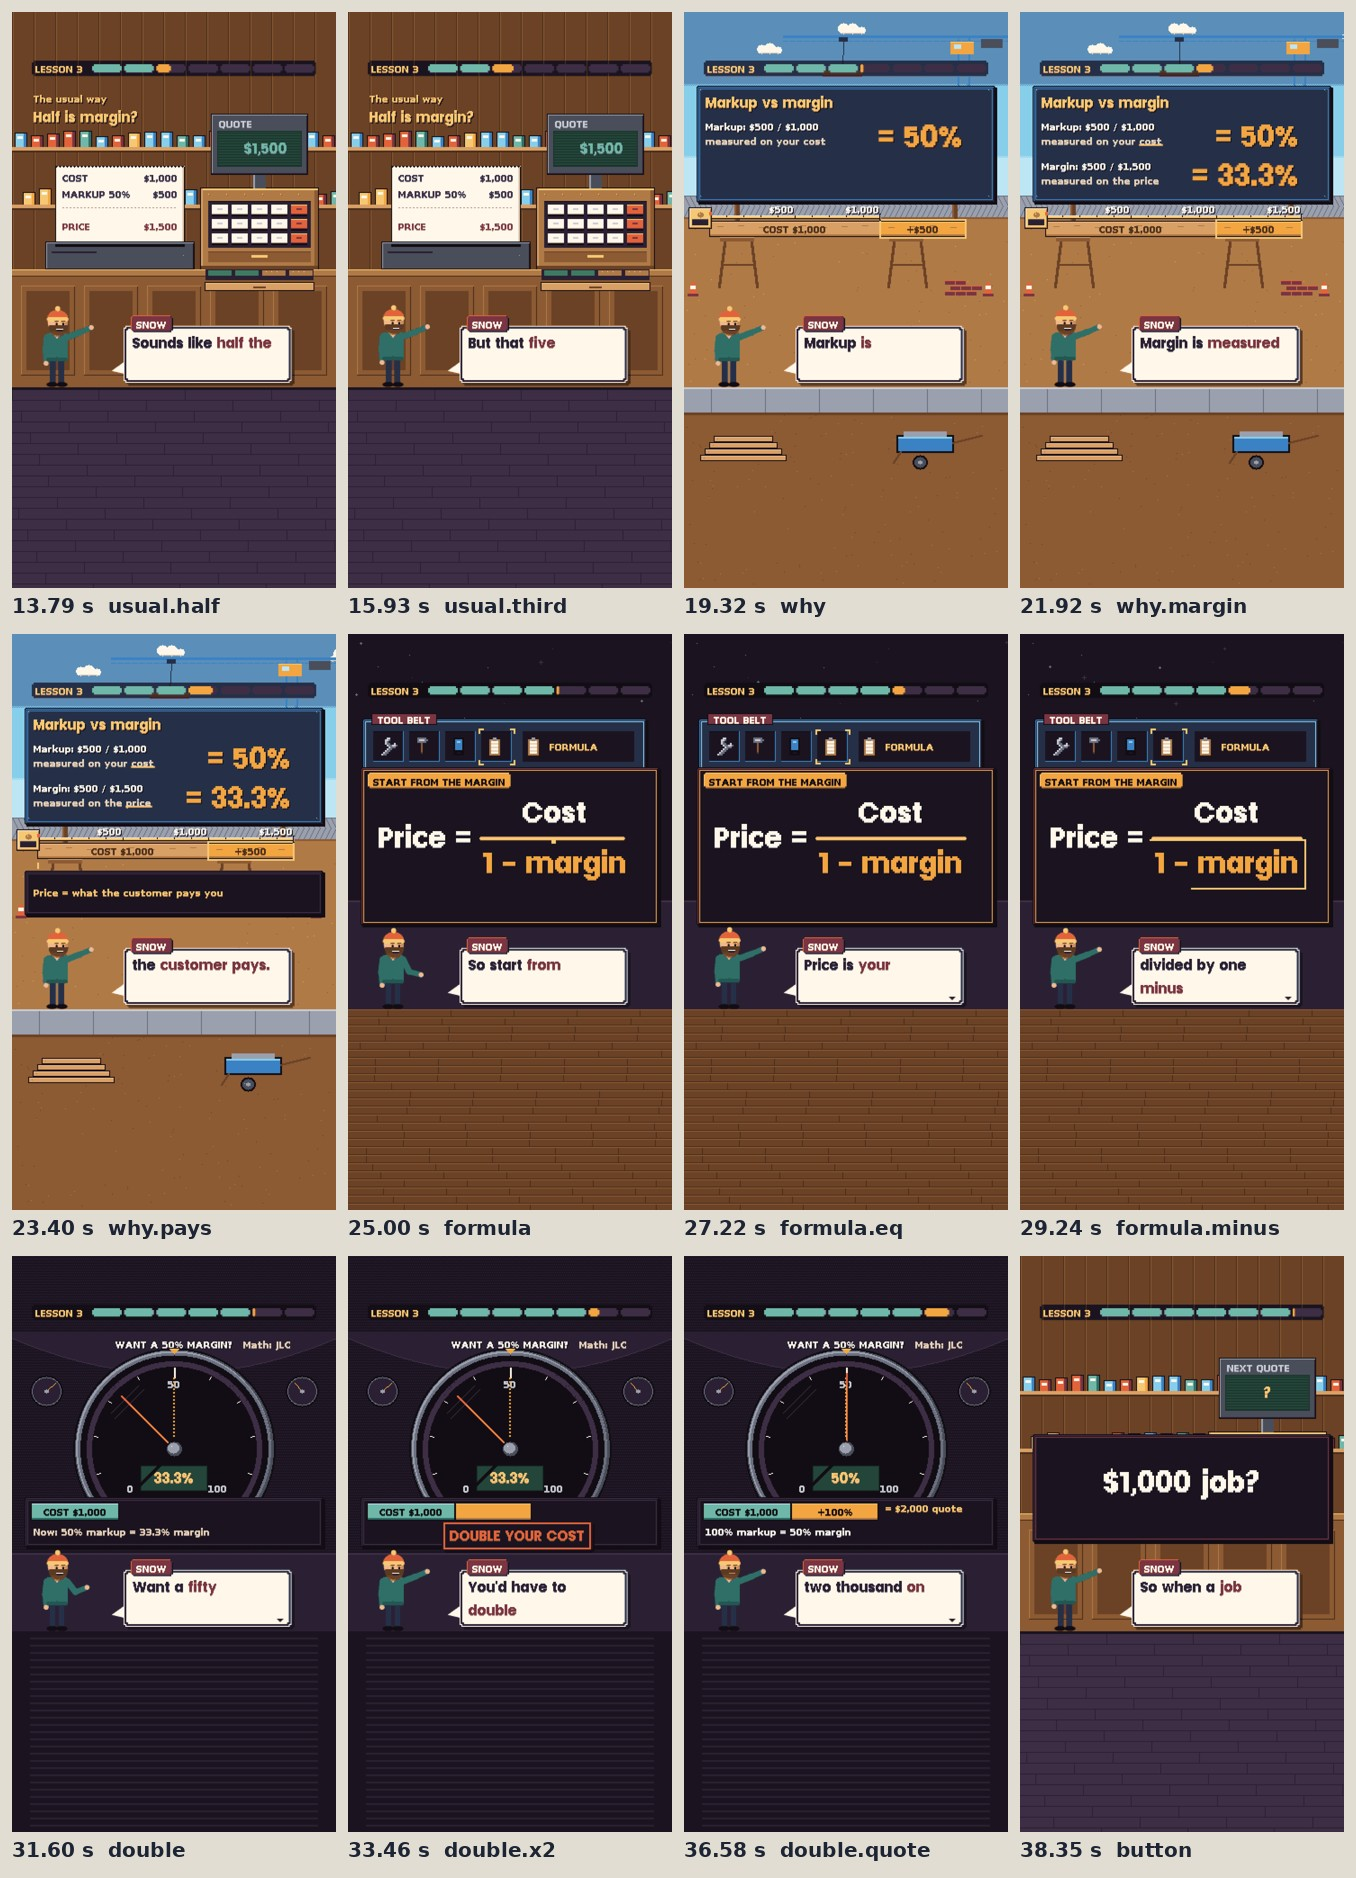
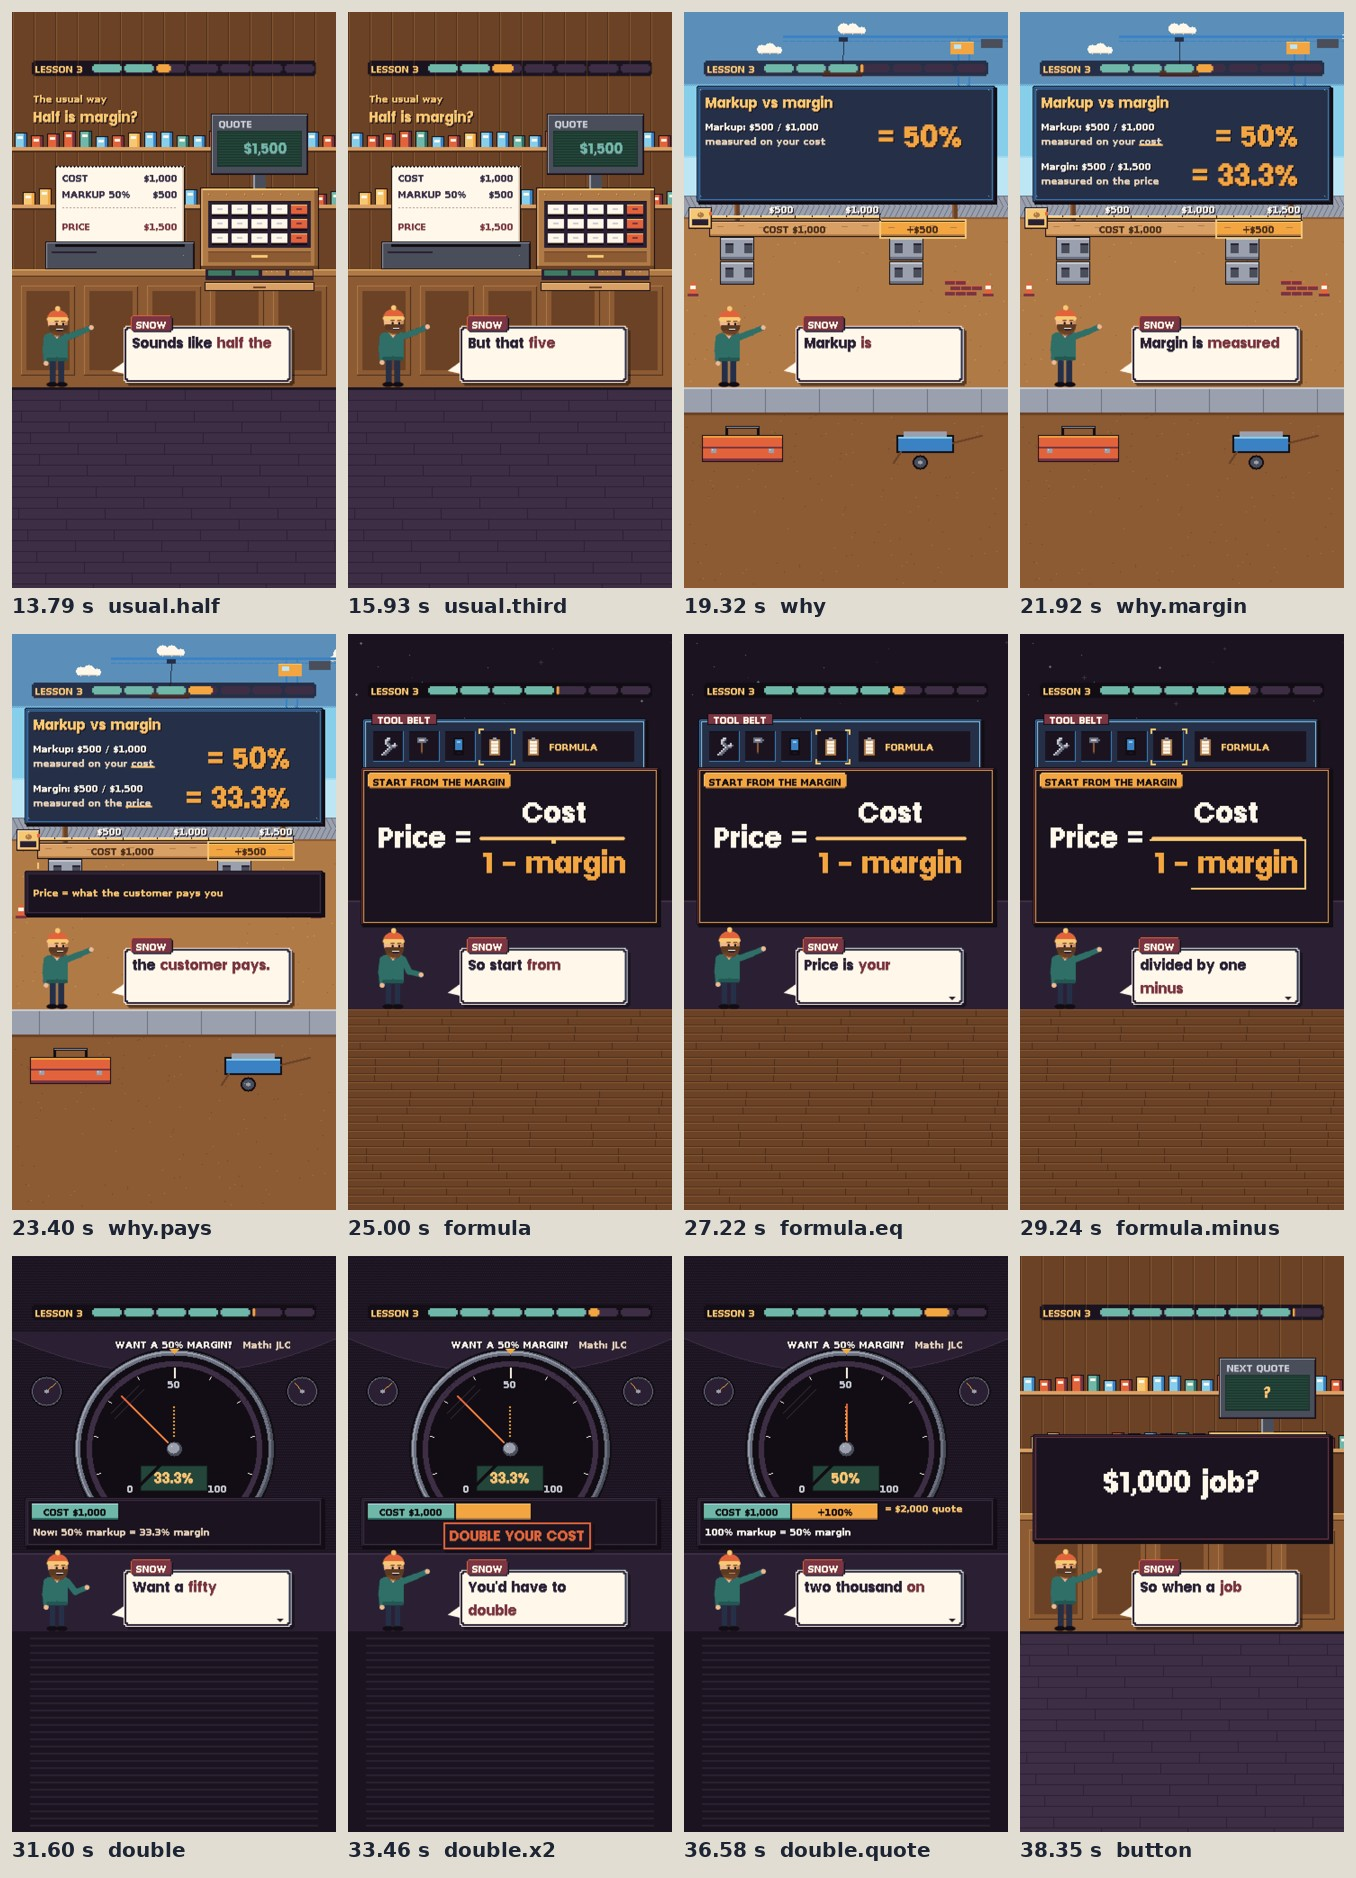
Studio lunch: markup-margin design fix round (hook question clear of the panel border, needle stops short of the 50, toolbox and cinder blocks replace lesson 1's lumber and sawhorses), YouTube site line full address, Kimi facts-captions r1
Claude-Session: https://claude.ai/code/session_01XMn4eGJouyFBJegYYqYsCB

diff --git a/video/studio/videos/2026-10-30-markup-margin/04_scene/scene.js b/video/studio/videos/2026-10-30-markup-margin/04_scene/scene.js
@@ -115,7 +115,10 @@ const site = (k, o) => {
   P(0, 417, 360, 223, '#8C5A33'); for (let i = 0; i < 160; i++) DOT(Math.floor(hash(i * 7.7) * 360), 420 + Math.floor(hash(i * 3.9) * 216), i % 2 ? '#6B4226' : '#B07A47');
   /* a poured slab with its form boards, a lumber stack and a wheelbarrow under the Reel's caption band */
   P(0, 417, 360, 30, '#9AA0AD'); P(0, 417, 360, 2, '#C9CCD3'); P(0, 445, 360, 3, '#6B4226'); for (let x = 30; x < 360; x += 60) P(x, 419, 1, 26, '#6B7080');
-  for (let r = 0; r < 4; r++) { const y = 492 - r * 7, w = 96 - r * 10; P(18 + r * 5, y, w, 7, INK); P(19 + r * 5, y + 1, w - 2, 5, '#D9A066'); P(19 + r * 5, y + 1, w - 2, 1, '#F7D79B'); DOT(19 + r * 5 + 3, y + 3, '#B07A47'); }
+  /* a contractor's toolbox (this lesson's own, design r0 Oct 30: lesson 1 had the lumber stack): red box, tray lid, handle, latches */
+  P(20, 470, 90, 30, INK); P(21, 471, 88, 28, '#E2633B'); P(21, 471, 88, 2, '#F2A541'); P(21, 483, 88, 2, '#7A3442'); P(21, 496, 88, 3, '#7A3442');
+  P(46, 460, 38, 3, INK); P(46, 460, 3, 11, INK); P(81, 460, 3, 11, INK); P(47, 461, 36, 1, GREY);
+  P(30, 485, 6, 5, GREY); P(94, 485, 6, 5, GREY); DOT(31, 486, CREAM); DOT(95, 486, CREAM);
   P(236, 470, 64, 20, INK); P(238, 472, 60, 16, '#3B82C4'); P(238, 472, 60, 2, '#87CEEB'); P(244, 466, 48, 6, '#9AA0AD'); line(298, 478, 330, 470, '#6B4226', 2); line(240, 488, 232, 500, '#6B4226', 2);
   disc(262, 500, 8, INK); disc(262, 500, 6, '#4A4E5A'); disc(262, 500, 2, GREY); P(262 + [0, 4, 0, -4][Math.floor(F / 20) % 4] - 0, 499, 1, 1, GREY);
   /* the site sign: two posts, a painted board with bolts (the scene's words go on it) */
@@ -123,7 +126,9 @@ const site = (k, o) => {
   d.win(14, 82, 332, 130, {base: '#253048', hi: '#3B82C4', lo: '#1B1420', rule: '#3B82C4'});
   [[18, 86], [338, 86], [18, 204], [338, 204]].forEach(([a, b]) => { DOT(a, b, GREY); DOT(a + 1, b + 1, '#4A4E5A'); });
   /* the sawhorses */
-  [[44, 30], [232, 30]].forEach(([x, w]) => { P(x - 4, 250, w + 8, 5, '#8C5A33'); P(x - 4, 250, w + 8, 1, '#D9A066'); line(x, 255, x - 6, 304, '#6B4226', 3); line(x + w, 255, x + w + 6, 304, '#6B4226', 3); P(x - 3, 280, w + 6, 2, '#6B4226'); });
+  /* cinder-block piers under the planks (design r0 Oct 30: lesson 1's hook had sawhorses): two stacked grey blocks, two cores each */
+  [[44, 30], [232, 30]].forEach(([x, w]) => { for (let r = 0; r < 2; r++) { const y = 250 + r * 27, bw = w + 8; P(x - 4, y, bw, 26, INK); P(x - 3, y + 1, bw - 2, 24, '#9AA0AD'); P(x - 3, y + 1, bw - 2, 2, '#C9CCD3'); P(x - 3, y + 22, bw - 2, 3, '#6B7080');
+    P(x + 2, y + 7, 9, 11, '#4A4E5A'); P(x + bw - 15, y + 7, 9, 11, '#4A4E5A'); P(x + 2, y + 7, 9, 2, '#2B2033'); P(x + bw - 15, y + 7, 9, 2, '#2B2033'); } });
   /* the planks: cost (raw wood), markup (painted orange); each carries its price */
   const plank = (x0, x1, base, hi, lo, label, lc) => {
     P(x0, 232, x1 - x0, 18, INK); P(x0 + 1, 233, x1 - x0 - 2, 16, base); P(x0 + 1, 233, x1 - x0 - 2, 1, hi); P(x0 + 1, 247, x1 - x0 - 2, 2, lo);
@@ -180,8 +185,8 @@ const bench = (k, o) => {
   /* the title plate: the question and its source, held from the cover */
   if (o.ask) {   /* the third shot: the question big, the wall in shadow */
     d.win(14, 82, 332, 104, {base: '#253048', hi: '#3B82C4', lo: '#1B1420', rule: '#3B82C4'});
-    k.slam('What do you', 540, 270, o.askAt, {size: 132, color: CREAM, align: 'center', drop: INK, from: 0.6});
-    k.slam('quote?', 540, 410, o.askAt + 0.1, {size: 132, color: 'accent', align: 'center', drop: INK, from: 0.6});
+    k.slam('What do you', 540, 262, o.askAt, {size: 132, color: CREAM, align: 'center', drop: INK, from: 0.6});
+    k.slam('quote?', 540, 384, o.askAt + 0.1, {size: 132, color: 'accent', align: 'center', drop: INK, from: 0.6});
   } else {
     d.win(14, 82, 332, 78, {base: '#253048', hi: '#3B82C4', lo: '#1B1420', rule: '#3B82C4'});
     k.text(`${n.cost.shown} job.`, 540, 268, {size: 66, color: CREAM, align: 'center', drop: INK});
@@ -202,7 +207,7 @@ const bench = (k, o) => {
   if (o.tapeAt != null && T >= o.tapeAt) { const to = XB(n.cost.value) - 30, q = clamp(fr(o.tapeAt) / 8), back = q >= 1 ? 1 : 1 + 2.2 * Math.pow(q - 1, 3) + 1.2 * Math.pow(q - 1, 2); L = Math.round(4 + (to - 4) * back); }
   P(30, 204, L, 10, INK); P(30, 205, L, 8, GOLD); P(30, 205, L, 2, '#FFF2B8');
   for (let usd = 100; XB(usd) - 30 <= L; usd += 100) P(XB(usd), 205, 2, usd % 500 ? 4 : 7, INK);
-  if (L >= XB(n.cost.value) - 30) { P(XB(n.cost.value) - 1, 200, 3, 16, INK); tx(n.cost.shown, XB(n.cost.value) - 4, 180, {size: 39, color: CREAM, align: 'right', drop: INK}); }
+  if (L >= XB(n.cost.value) - 30) { P(XB(n.cost.value) - 1, 200, 3, 16, INK); if (!o.ask) tx(n.cost.shown, XB(n.cost.value) - 4, 180, {size: 39, color: CREAM, align: 'right', drop: INK}); }
   P(30 + L - 2, 200, 4, 18, INK); P(30 + L - 1, 201, 2, 16, GREY);
   d.bevel(2, 192, 34, 34, GOLD, '#FFF2B8', '#B07A47', INK); P(6, 210, 26, 10, '#2B2033'); P(6, 210, 26, 2, '#4A4E5A'); disc(19, 201, 5, '#B07A47'); DOT(17, 199, CREAM); P(33, 197, 4, 6, '#E2633B');
   k.chip('Run the numbers', 66, 846, {size: 30});
@@ -223,8 +228,9 @@ const dial = (k, label, v, shown, o = {}) => {
   d.tx('0', GX + Math.cos(GA0) * (GR - 32), GY + Math.sin(GA0) * (GR - 32) - 10, {color: '#C9CCD3', align: 'center', lint: false});
   /* the mark at 50: a gold notch on the bezel; a dotted ghost needle when o.ghost (what people picture, or the target) */
   if (o.notchAt != null && k.T >= o.notchAt) { const f = d.fr(o.notchAt), lift = f < 4 ? [-6, -3, -1, 1][f] : 0; for (let j = 0; j < 6; j++) d.P(GX - 5 + j, 103 + j + lift, 11 - 2 * j, 1, j ? ORANGE : GOLD); d.P(GX - 6, 102 + lift, 13, 1, INK); }
-  if (o.ghostAt != null && k.T >= o.ghostAt) { const blink = d.fr(o.ghostAt) < 30 && Math.floor(d.fr(o.ghostAt) / 8) % 2; if (!blink) for (let r = 14; r < GR - 18; r += 4) d.P(GX - 1, GY - r - 1, 2, 2, o.ghostC || GOLD); }
-  const na = Math.round((GA0 + GSW * clamp(v / 100, -0.02, 1.02)) * 180 / Math.PI) * Math.PI / 180, R1 = GR - 16, R2 = GR - 30;
+  if (o.ghostAt != null && k.T >= o.ghostAt) { const blink = d.fr(o.ghostAt) < 30 && Math.floor(d.fr(o.ghostAt) / 8) % 2; if (!blink) for (let r = 14; r < GR - 50; r += 4) d.P(GX - 1, GY - r - 1, 2, 2, o.ghostC || GOLD); }
+  /* near 50 the needle would run through the set's '50' numeral (design r0 Oct 30): it stops short of it there */
+  const near = Math.abs(v - 50) < 7, na = Math.round((GA0 + GSW * clamp(v / 100, -0.02, 1.02)) * 180 / Math.PI) * Math.PI / 180, R1 = near ? GR - 50 : GR - 16, R2 = near ? GR - 58 : GR - 30;
   d.line(GX + 1, GY + 1, GX + 1 + Math.round(Math.cos(na) * R1), GY + 1 + Math.round(Math.sin(na) * R1), INK, 2);
   d.line(GX, GY, GX + Math.round(Math.cos(na) * R1), GY + Math.round(Math.sin(na) * R1), RED, 2);
   d.line(GX, GY, GX + Math.round(Math.cos(na) * R2), GY + Math.round(Math.sin(na) * R2), ORANGE, 1);
